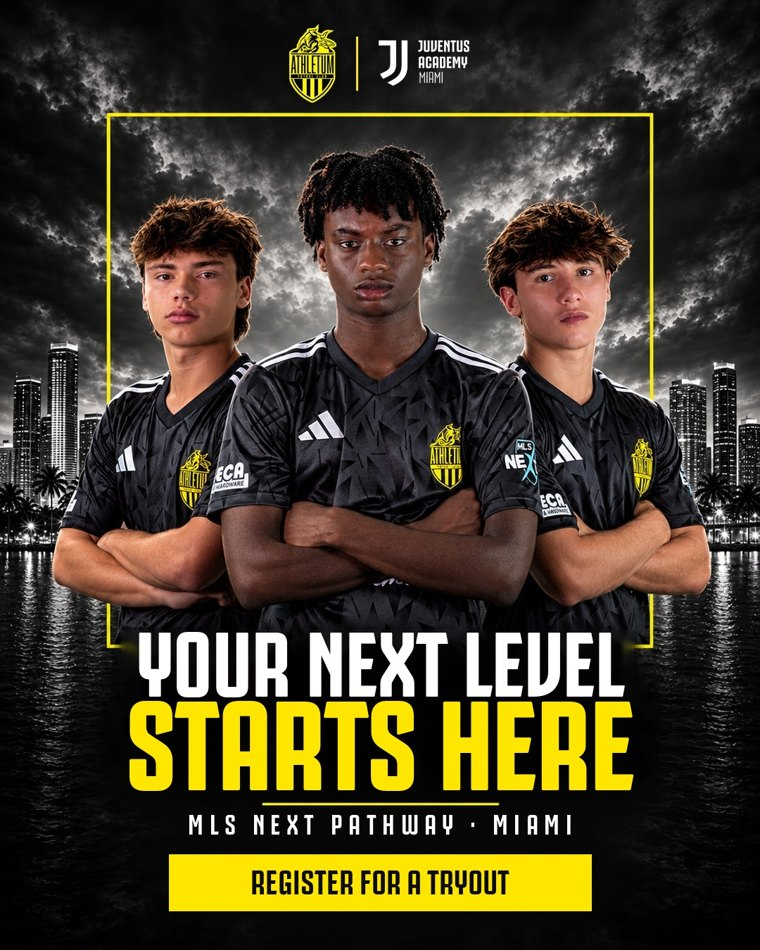
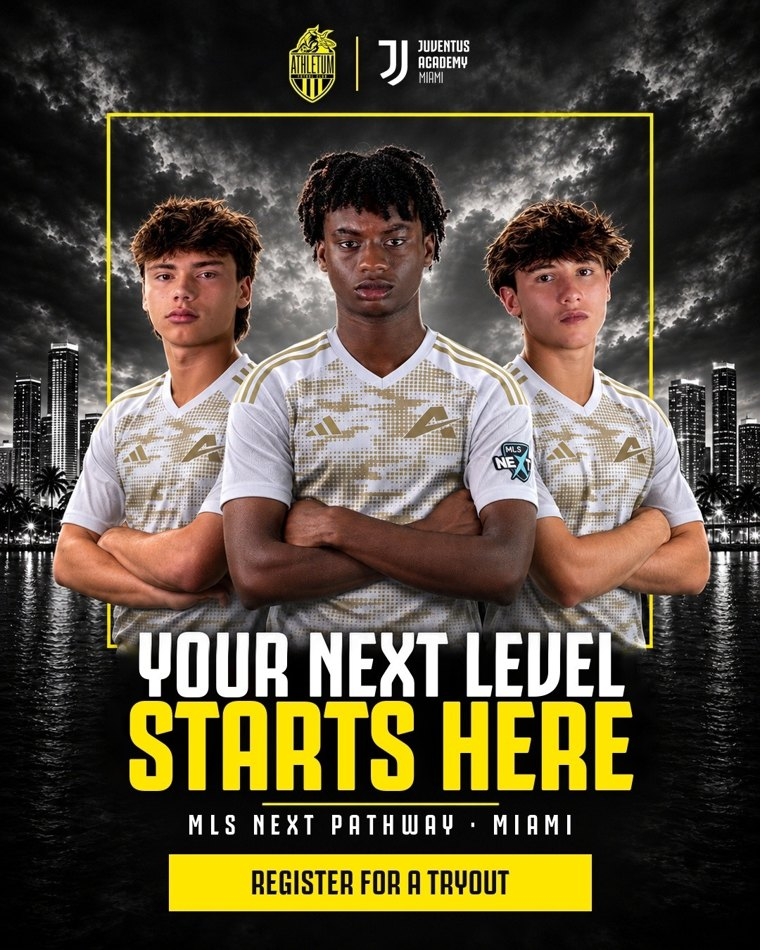
S1 con camiseta 2026-27 y S3 Pathway de 4 niveles (03-11)

diff --git a/index.html b/index.html
@@ -65,11 +65,11 @@ footer{margin-top:40px;color:var(--muted);font-size:14px;border-top:1px solid va
 <p class="como"><b>Cómo aprobar:</b> si el texto está bien, botón <b>Aprobar</b>. Para corregir el texto o el título, se escribe directamente sobre ellos; el botón pasa a <b>Aprobar con texto corregido</b> y se guarda la versión nueva. También se puede dejar una nota sin aprobar. Todo queda registrado.</p>
 <div class="todo"><span class="cuenta"></span><button type="button">Aprobar todos los que faltan</button></div>
 <article class="ad base" data-id="S1">
-  <header><span class="num">1</span><h3>STATIC-1 · HERO &quot;Your next level starts here&quot;</h3><span class="estado" data-estado>Pieza aprobada por David</span></header>
+  <header><span class="num">1</span><h3>STATIC-1 · HERO &quot;Your next level starts here&quot;</h3><span class="estado" data-estado>Actualizada 03-11 · por aprobar</span></header>
   <div class="cuerpo">
-    <div class="media"><img src="assets/S1.jpg?v=8" alt="STATIC-1 · HERO &quot;Your next level starts here&quot;" loading="lazy">
-      <a class="dl" href="assets/S1_1080.jpg?v=8" target="_blank" rel="noopener">Ver a tamaño real</a>
-      <p class="nota-pieza">Se mantiene (David, 13-10); textos reescritos con la misma letra gruesa de los demás anuncios. Falta aprobar el texto.</p></div>
+    <div class="media"><img src="assets/S1.jpg?v=9" alt="STATIC-1 · HERO &quot;Your next level starts here&quot;" loading="lazy">
+      <a class="dl" href="assets/S1_1080.jpg?v=9" target="_blank" rel="noopener">Ver a tamaño real</a>
+      <p class="nota-pieza">Actualizada (03-11): los tres jugadores con la camiseta nueva 2026-27 blanca y dorada (mismas caras, poses, titular, logos y botón). Para redes hay una versión igual sin el botón.</p></div>
     <div class="copy">
       <div class="lbl">Texto principal · inglés <span class="hint">· se puede editar</span></div>
       <div class="tp ed" contenteditable="true" spellcheck="true" data-campo="texto">Your next level starts here. ⚽<br><br>Athletum FC is the competitive pathway of Juventus Academy Miami: from our competitive divisions all the way to MLS NEXT, boys and girls train with coaches who know what the next level demands.<br><br>The first step is one tryout, and it&#x27;s free. Register in two minutes 👇</div>
@@ -88,16 +88,16 @@ footer{margin-top:40px;color:var(--muted);font-size:14px;border-top:1px solid va
     </div>
   </div>
 </article><article class="ad pend" data-id="S3">
-  <header><span class="num">2</span><h3>STATIC-3 · PATHWAY &quot;One club. The whole pathway.&quot;</h3><span class="estado" data-estado>Corregida 16-10 · por aprobar</span></header>
+  <header><span class="num">2</span><h3>STATIC-3 · PATHWAY &quot;One club. The whole pathway.&quot;</h3><span class="estado" data-estado>Actualizada 03-11 · por aprobar</span></header>
   <div class="cuerpo">
-    <div class="media"><img src="assets/S3.jpg?v=8" alt="STATIC-3 · PATHWAY &quot;One club. The whole pathway.&quot;" loading="lazy">
-      <a class="dl" href="assets/S3_1080.jpg?v=8" target="_blank" rel="noopener">Ver a tamaño real</a>
-      <p class="nota-pieza">Corregida según sus notas: camiseta de esta temporada; escalera de 3 escalones: Pre-Academy (logo Juventus Academy Miami), Division 3 · 2 · 1 · Elite (logos de EDP Florida, Florida Academy League, South Florida Premier League y National Academy League) y MLS NEXT (Academy y Homegrown juntos, con su logo). El texto también se ajustó a los 3 niveles.</p></div>
+    <div class="media"><img src="assets/S3.jpg?v=9" alt="STATIC-3 · PATHWAY &quot;One club. The whole pathway.&quot;" loading="lazy">
+      <a class="dl" href="assets/S3_1080.jpg?v=9" target="_blank" rel="noopener">Ver a tamaño real</a>
+      <p class="nota-pieza">Actualizada (03-11): otro jugador (el de antes ya sale en el HERO) con la camiseta 2026-27 y escalera de 4 niveles: Pre-Academy (logo Juventus Academy Miami), Competitive (logos de las 4 ligas), MLS NEXT (con su logo) y arriba College (NCAA, NJCAA y NAIA) y Pro. Antes: escalera de 3 escalones: Pre-Academy (logo Juventus Academy Miami), Division 3 · 2 · 1 · Elite (logos de EDP Florida, Florida Academy League, South Florida Premier League y National Academy League) y MLS NEXT (Academy y Homegrown juntos, con su logo). El texto también se ajustó a los 3 niveles.</p></div>
     <div class="copy">
       <div class="lbl">Texto principal · inglés <span class="hint">· se puede editar</span></div>
-      <div class="tp ed" contenteditable="true" spellcheck="true" data-campo="texto">Where does your player fit today? 🤔<br><br>Pre-Academy, Division 3, 2, 1, Elite or MLS NEXT: at Athletum FC the whole pathway is in one club, so every player trains at the right level and knows the next step.<br><br>A free tryout tells you where to start 👇</div>
+      <div class="tp ed" contenteditable="true" spellcheck="true" data-campo="texto">Where does your player fit today? 🤔<br><br>Pre-Academy, Competitive, MLS NEXT and then College or Pro: at Athletum FC the whole pathway is in one club, so every player trains at the right level and knows the next step.<br><br>A free tryout tells you where to start 👇</div>
       <div class="lbl">Versión en español, para probar <span class="hint">· se puede editar</span></div>
-      <div class="tp ed es" contenteditable="true" spellcheck="true" data-campo="texto_es">¿En qué nivel está tu hijo hoy? 🤔<br><br>Pre-Academy, Division 3, 2, 1, Elite o MLS NEXT: en Athletum FC todo el camino está en un solo club, así que cada jugador entrena en su nivel y sabe cuál es el siguiente paso.<br><br>Un tryout gratis te dice por dónde empezar 👇</div>
+      <div class="tp ed es" contenteditable="true" spellcheck="true" data-campo="texto_es">¿En qué nivel está tu hijo hoy? 🤔<br><br>Pre-Academy, Competitive, MLS NEXT y después College o Pro: en Athletum FC todo el camino está en un solo club, así que cada jugador entrena en su nivel y sabe cuál es el siguiente paso.<br><br>Un tryout gratis te dice por dónde empezar 👇</div>
       <div class="lbl">Título <span class="hint">· se puede editar</span></div>
       <div class="tit ed" contenteditable="true" spellcheck="true" data-campo="titulo">Register for a free tryout</div>
       <div class="lbl">Botón</div><p class="btn">Sign Up</p>
@@ -113,8 +113,8 @@ footer{margin-top:40px;color:var(--muted);font-size:14px;border-top:1px solid va
 </article><article class="ad pend" data-id="S4">
   <header><span class="num">3</span><h3>STATIC-4 · HOW A TRYOUT WORKS</h3><span class="estado" data-estado>Corregida 16-10 · por aprobar</span></header>
   <div class="cuerpo">
-    <div class="media"><img src="assets/S4.jpg?v=8" alt="STATIC-4 · HOW A TRYOUT WORKS" loading="lazy">
-      <a class="dl" href="assets/S4_1080.jpg?v=8" target="_blank" rel="noopener">Ver a tamaño real</a>
+    <div class="media"><img src="assets/S4.jpg?v=9" alt="STATIC-4 · HOW A TRYOUT WORKS" loading="lazy">
+      <a class="dl" href="assets/S4_1080.jpg?v=9" target="_blank" rel="noopener">Ver a tamaño real</a>
       <p class="nota-pieza">Corregida según su nota: los tres jugadores con la camiseta de esta temporada (mismas caras y poses; titular, logos y botón sin cambios).</p></div>
     <div class="copy">
       <div class="lbl">Texto principal · inglés <span class="hint">· se puede editar</span></div>
@@ -136,8 +136,8 @@ footer{margin-top:40px;color:var(--muted);font-size:14px;border-top:1px solid va
 </article><article class="ad pend" data-id="S5">
   <header><span class="num">4</span><h3>STATIC-5 · NUEVO ENFOQUE &quot;From Miami to Europe&quot;</h3><span class="estado" data-estado>Corregida 16-10 · por aprobar</span></header>
   <div class="cuerpo">
-    <div class="media"><img src="assets/S5.jpg?v=8" alt="STATIC-5 · NUEVO ENFOQUE &quot;From Miami to Europe&quot;" loading="lazy">
-      <a class="dl" href="assets/S5_1080.jpg?v=8" target="_blank" rel="noopener">Ver a tamaño real</a>
+    <div class="media"><img src="assets/S5.jpg?v=9" alt="STATIC-5 · NUEVO ENFOQUE &quot;From Miami to Europe&quot;" loading="lazy">
+      <a class="dl" href="assets/S5_1080.jpg?v=9" target="_blank" rel="noopener">Ver a tamaño real</a>
       <p class="nota-pieza">Corregida según su nota: el titular ahora dice FROM MIAMI TO EUROPE. Collage con fotos reales del viaje a Italia de la temporada 2025-26.</p></div>
     <div class="copy">
       <div class="lbl">Texto principal · inglés <span class="hint">· se puede editar</span></div>
@@ -160,7 +160,7 @@ footer{margin-top:40px;color:var(--muted);font-size:14px;border-top:1px solid va
 </div>
 <script>
 const CFG={"accion": "https://docs.google.com/forms/d/e/1FAIpQLSeGUY8Cv9Ea08X9HkdznY9pzVoUc4Gj-GdymsVTFP86wbE5sw/formResponse", "entry": {"pieza": 333677581, "cuenta": 724853821, "autor": 299801437, "comentario": 1175231019, "copy_corregido": 1649408514, "copy_original": 1637675582, "enviado": 909195940, "tipo": 1605073129, "zona": 1831673234, "fila": 1327618412}, "cuenta": "athletum_tryouts"};
-const ORIG={"S1": {"texto": "Your next level starts here. ⚽\n\nAthletum FC is the competitive pathway of Juventus Academy Miami: from our competitive divisions all the way to MLS NEXT, boys and girls train with coaches who know what the next level demands.\n\nThe first step is one tryout, and it's free. Register in two minutes 👇", "texto_es": "Tu próximo nivel empieza aquí. ⚽\n\nAthletum FC es el camino competitivo de Juventus Academy Miami: desde las divisiones competitivas hasta MLS NEXT, con entrenadores que saben lo que exige el siguiente nivel.\n\nEl primer paso es un tryout, y es gratis. Regístrate en dos minutos 👇", "titulo": "Register for a free tryout", "nombre": "STATIC-1 · HERO \"Your next level starts here\""}, "S3": {"texto": "Where does your player fit today? 🤔\n\nPre-Academy, Division 3, 2, 1, Elite or MLS NEXT: at Athletum FC the whole pathway is in one club, so every player trains at the right level and knows the next step.\n\nA free tryout tells you where to start 👇", "texto_es": "¿En qué nivel está tu hijo hoy? 🤔\n\nPre-Academy, Division 3, 2, 1, Elite o MLS NEXT: en Athletum FC todo el camino está en un solo club, así que cada jugador entrena en su nivel y sabe cuál es el siguiente paso.\n\nUn tryout gratis te dice por dónde empezar 👇", "titulo": "Register for a free tryout", "nombre": "STATIC-3 · PATHWAY \"One club. The whole pathway.\""}, "S4": {"texto": "Thinking about a tryout but not sure how it works?\n\n1. Register online, it's free.\n2. We invite you to a practice.\n3. Our coaches find the right level and team for you.\n\nNo pressure, no guesswork. Start here 👇", "texto_es": "¿Quieres hacer un tryout y no sabes cómo funciona?\n\n1. Te registras en línea, es gratis.\n2. Te invitamos a una práctica.\n3. Nuestros entrenadores encuentran tu nivel y tu equipo.\n\nSin presión y sin adivinar. Empieza aquí 👇", "titulo": "Register for a free tryout", "nombre": "STATIC-4 · HOW A TRYOUT WORKS"}, "S5": {"texto": "Last season, our players took the field in Italy against the academies of Juventus, Roma and Lazio. 🇮🇹⚽\n\nAt Athletum FC the pathway goes beyond Miami: MLS NEXT competition at home and international experiences that show players what the next level looks like.\n\nIt all starts with one free tryout. Register in two minutes 👇", "texto_es": "La temporada pasada nuestros jugadores jugaron en Italia contra las academias de Juventus, Roma y Lazio. 🇮🇹⚽\n\nEn Athletum FC el camino va más allá de Miami: competencia MLS NEXT en casa y experiencias internacionales que muestran cómo es el siguiente nivel.\n\nTodo empieza con un tryout gratis. Regístrate en dos minutos 👇", "titulo": "Register for a free tryout", "nombre": "STATIC-5 · NUEVO ENFOQUE \"From Miami to Europe\""}};
+const ORIG={"S1": {"texto": "Your next level starts here. ⚽\n\nAthletum FC is the competitive pathway of Juventus Academy Miami: from our competitive divisions all the way to MLS NEXT, boys and girls train with coaches who know what the next level demands.\n\nThe first step is one tryout, and it's free. Register in two minutes 👇", "texto_es": "Tu próximo nivel empieza aquí. ⚽\n\nAthletum FC es el camino competitivo de Juventus Academy Miami: desde las divisiones competitivas hasta MLS NEXT, con entrenadores que saben lo que exige el siguiente nivel.\n\nEl primer paso es un tryout, y es gratis. Regístrate en dos minutos 👇", "titulo": "Register for a free tryout", "nombre": "STATIC-1 · HERO \"Your next level starts here\""}, "S3": {"texto": "Where does your player fit today? 🤔\n\nPre-Academy, Competitive, MLS NEXT and then College or Pro: at Athletum FC the whole pathway is in one club, so every player trains at the right level and knows the next step.\n\nA free tryout tells you where to start 👇", "texto_es": "¿En qué nivel está tu hijo hoy? 🤔\n\nPre-Academy, Competitive, MLS NEXT y después College o Pro: en Athletum FC todo el camino está en un solo club, así que cada jugador entrena en su nivel y sabe cuál es el siguiente paso.\n\nUn tryout gratis te dice por dónde empezar 👇", "titulo": "Register for a free tryout", "nombre": "STATIC-3 · PATHWAY \"One club. The whole pathway.\""}, "S4": {"texto": "Thinking about a tryout but not sure how it works?\n\n1. Register online, it's free.\n2. We invite you to a practice.\n3. Our coaches find the right level and team for you.\n\nNo pressure, no guesswork. Start here 👇", "texto_es": "¿Quieres hacer un tryout y no sabes cómo funciona?\n\n1. Te registras en línea, es gratis.\n2. Te invitamos a una práctica.\n3. Nuestros entrenadores encuentran tu nivel y tu equipo.\n\nSin presión y sin adivinar. Empieza aquí 👇", "titulo": "Register for a free tryout", "nombre": "STATIC-4 · HOW A TRYOUT WORKS"}, "S5": {"texto": "Last season, our players took the field in Italy against the academies of Juventus, Roma and Lazio. 🇮🇹⚽\n\nAt Athletum FC the pathway goes beyond Miami: MLS NEXT competition at home and international experiences that show players what the next level looks like.\n\nIt all starts with one free tryout. Register in two minutes 👇", "texto_es": "La temporada pasada nuestros jugadores jugaron en Italia contra las academias de Juventus, Roma y Lazio. 🇮🇹⚽\n\nEn Athletum FC el camino va más allá de Miami: competencia MLS NEXT en casa y experiencias internacionales que muestran cómo es el siguiente nivel.\n\nTodo empieza con un tryout gratis. Regístrate en dos minutos 👇", "titulo": "Register for a free tryout", "nombre": "STATIC-5 · NUEVO ENFOQUE \"From Miami to Europe\""}};
 
 const LSK='ath_tryouts_v1',CAMPOS=['texto','texto_es','titulo'];
 const LS={get(){try{return JSON.parse(localStorage.getItem(LSK)||'{}')}catch(e){return {}}},set(v){try{localStorage.setItem(LSK,JSON.stringify(v))}catch(e){}}};
